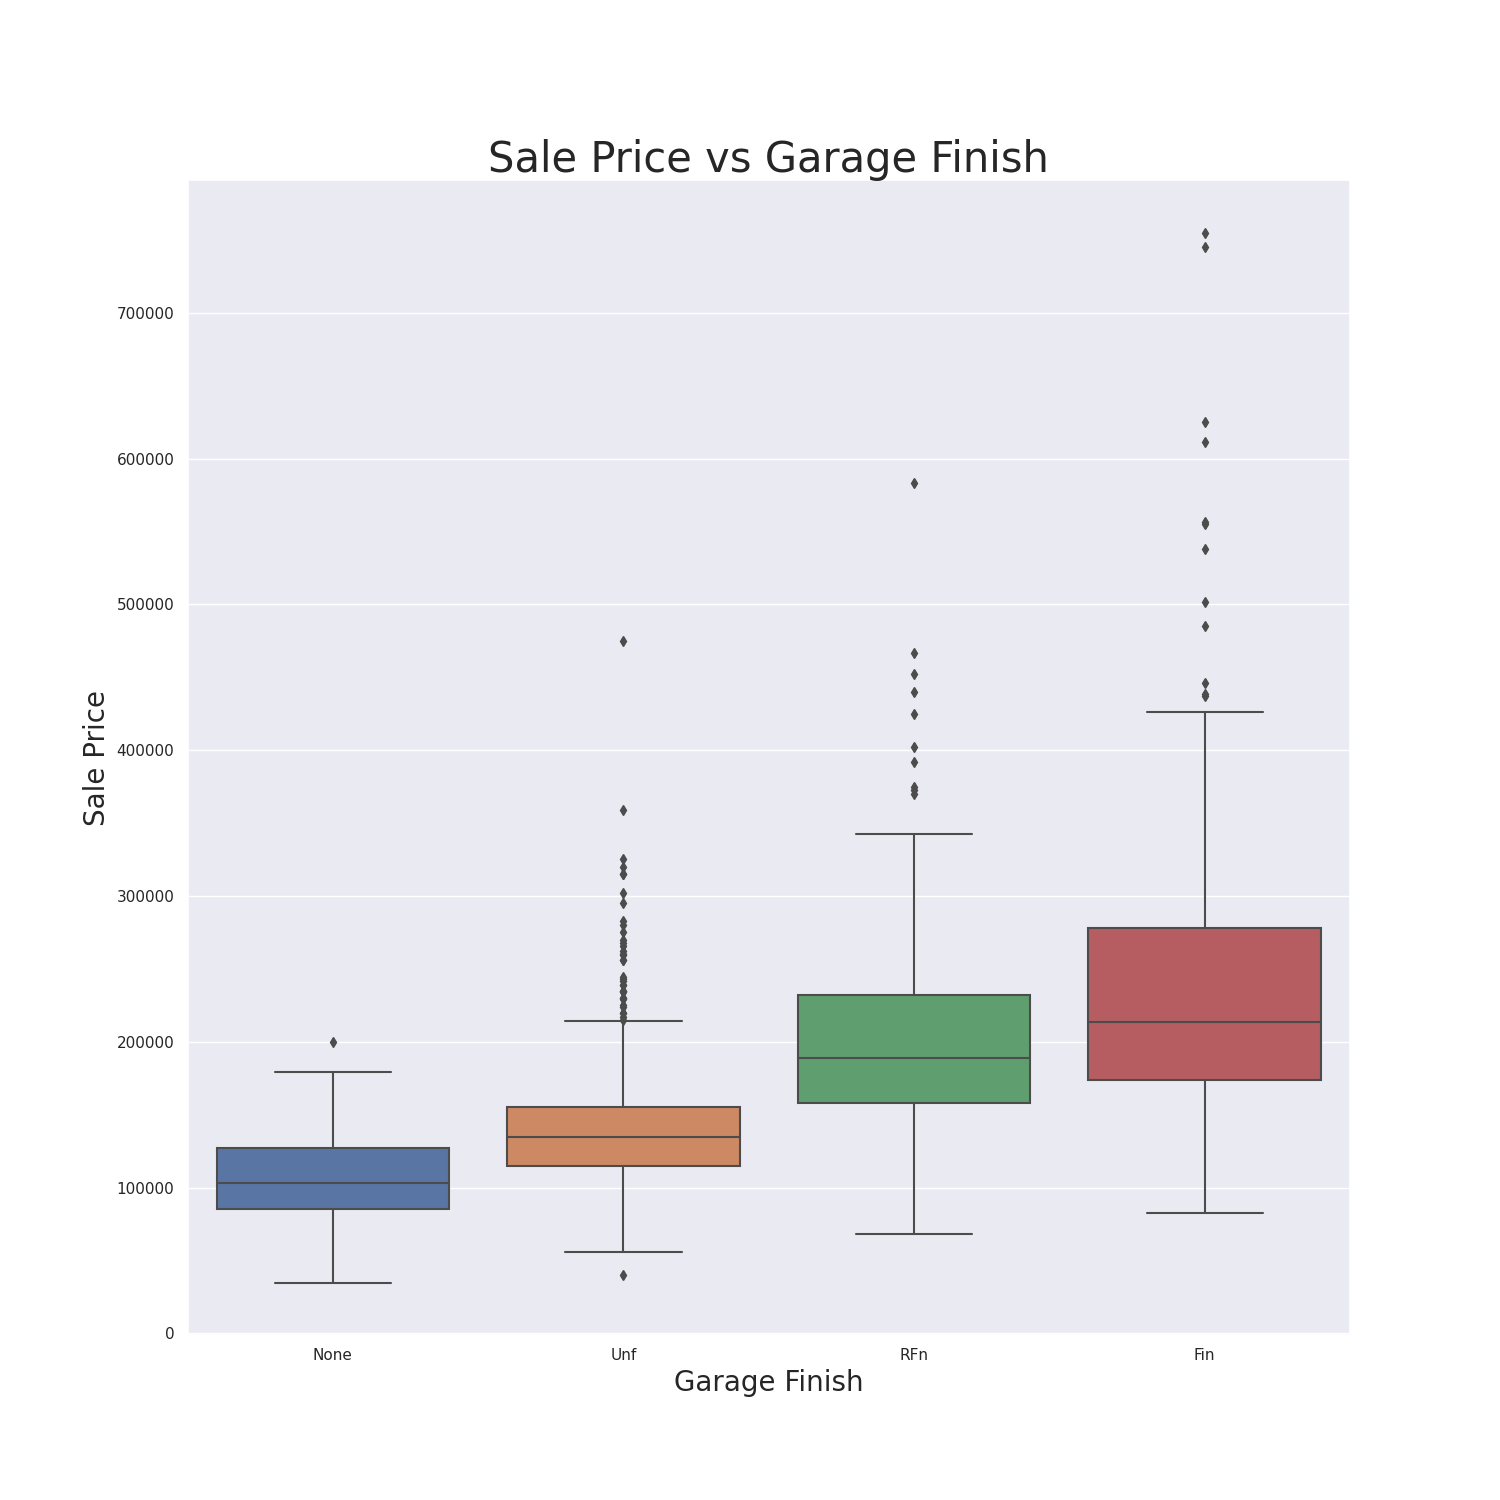
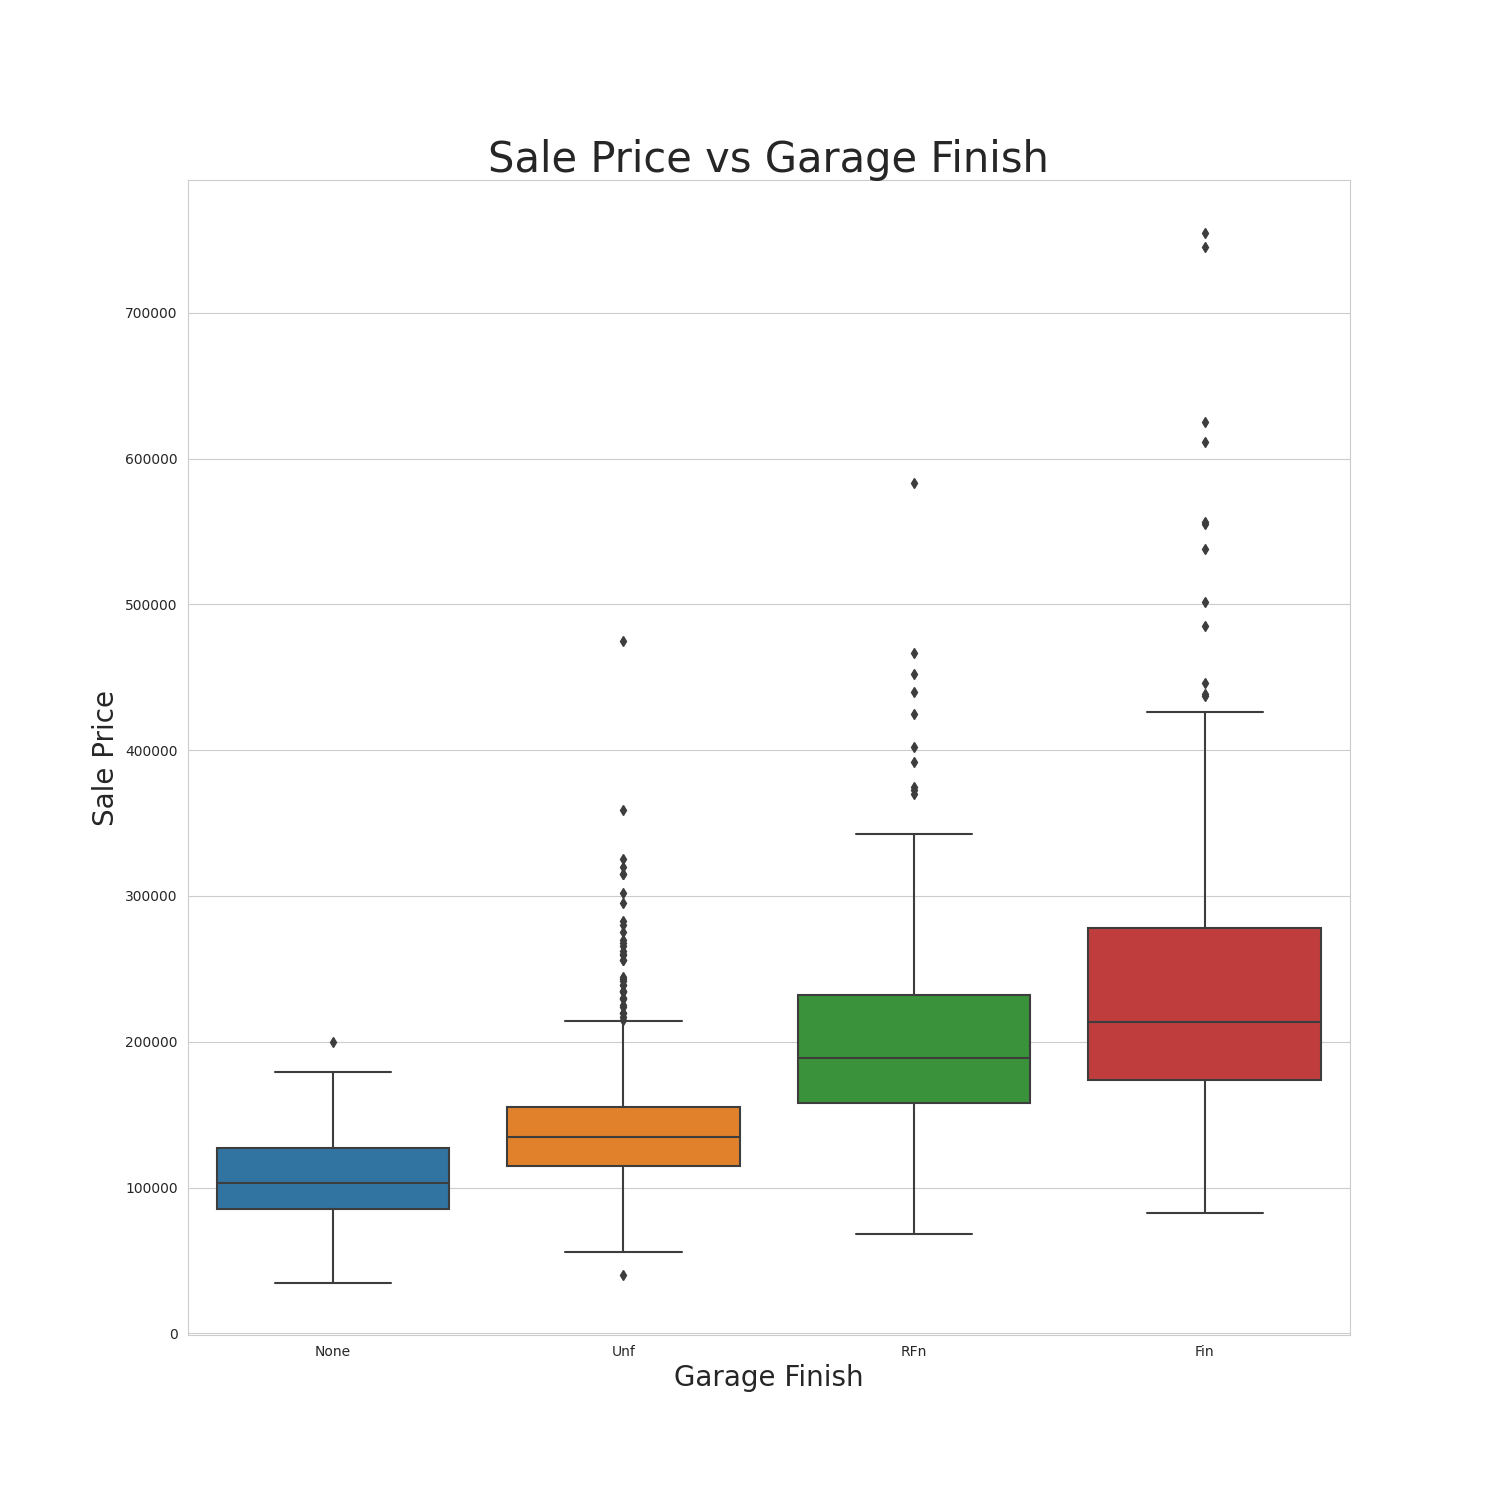
feat: add charts to correlation page on streamlit

diff --git a/app_pages/page_sale_price_study.py b/app_pages/page_sale_price_study.py
@@ -22,15 +22,17 @@ def page_sale_price_study_body():
         "The client is interested in discovering how the house attributes\
          correlate with the sale price. Therefore, the client expects data\
          visualisations of the correlated variables against the sale price to show that."
-    )    
+    )
     # Inspect dataset
     st.subheader("Explore Dataset")
 
-    df= load_housing_data()
+    df = load_housing_data()
 
-    if(st.checkbox( "Inspect dataset")):
-        st.write(f'* The dataset has {df.shape[0]} rows and {df.shape[1]} columns.')
-        st.write("""* The last column ```SalePrice``` is our taget variable for finding correlation.""")
+    if st.checkbox("Inspect dataset"):
+        st.write(f"* The dataset has {df.shape[0]} rows and {df.shape[1]} columns.")
+        st.write(
+            """* The last column ```SalePrice``` is our taget variable for finding correlation."""
+        )
         st.write("""
             * Sale Price is in USD and area measurement is in square feet. For additional variable \
             definition and metadata, refer to the project [ReadMe](https://github.com/ysgurjar/pp5_project_heritage_housing)\
@@ -47,7 +49,7 @@ def page_sale_price_study_body():
     )
 
     st.info(
-            """
+        """
             - **Size** :
                 - **First Floor Square feet** (1stFlrSF): Larger the area, higher the price
                 - **Garage Area** (GarageArea): Larger the area, higher the price
@@ -65,20 +67,79 @@ def page_sale_price_study_body():
                     but after that newer houses typically have higher prices. PS: This field contains a lot of missing values\
                     so be careful to analyse it.
             """
-        )
-    
-    if(st.checkbox( "Show Correlation Plots")):
-        st.write(f'The dataset has {df.shape[0]} rows and {df.shape[1]} columns.')
-        st.write("""The last column ```SalePrice``` is our taget variable for finding correlation.""")
-        st.write(df)
-    
-    ## ==== Code to generate plots ====
+    )
 
-    # Create a custom dict to display categories labels instead of names
+    # ==== Code to generate plots ====
 
-    var_labels={
-        '1stFlrSF':'1st Floor Square Feet',
-        'GarageArea': 'Garage Area',
-        'GrLiveArea': 'Ground Living Area'
-        ''
+    # create a custom dict to display categories labels instead of names on plots
+
+    var_labels = {
+        "1stFlrSF": "1st Floor Square Feet",
+        "GarageArea": "Garage Area",
+        "GrLivArea": "Ground Living Area",
+        "TotalBsmtSF": "Total Basement Square Feet",
+        "OverallQual": "Overall Quality",
+        "GarageFinish": "Garage Finish",
+        "KitchenQual": "Kitchen Quality",
+        "YearBuilt": "Original Construction Year",
+        "GarageYrBlt": "Year Garage was Built",
     }
+
+    # create a custom order dict for categorical variables to define plotting order
+
+    cat_var_order = {
+        "OverallQual": [1, 2, 3, 4, 5, 6, 7, 8, 9, 10],
+        "KitchenQual": ["Fa", "TA", "Gd", "Ex"],
+        "GarageFinish": ["None", "Unf", "RFn", "Fin"],
+    }
+
+    # plot categorical variables
+
+    def plot_cat_var():
+        cat_var = ["OverallQual", "GarageFinish", "KitchenQual"]
+
+        for x in cat_var:
+            fig, axes = plt.subplots(nrows=1, ncols=1, figsize=(15, 15))
+            p = sns.boxplot(data=df, y="SalePrice", x=x, order=cat_var_order[x])
+            p.axes.set_title(f"Sale Price vs {var_labels[x]}", fontsize=30)
+            p.axes.set_ylabel("Sale Price", fontsize=20)
+            p.axes.set_xlabel(var_labels[x], fontsize=20)
+            # Show the plot
+            st.pyplot(fig)
+
+    # plot numerical variables
+    def plot_num_var():
+        num_var = [
+            "GrLivArea",
+            "TotalBsmtSF",
+            "1stFlrSF",
+            "GarageArea",
+            "YearBuilt",
+            "GarageYrBlt",
+        ]
+
+        for x in num_var:
+            # sns.set_theme()
+            # sns.set_context('paper')
+            plt.figure(figsize=(15, 15))  # Set the figure size for each subplot
+            if x in ("YearBuilt", "GarageYrBlt"):
+                p = sns.lineplot(data=df, x=x, y="SalePrice")
+                # Inspired from https://python-charts.com/seaborn/lines/
+                # Add a vertical line to seperate two trends
+                p.axvline(x=1950, color="black", linestyle="dashed")
+            else:
+                # set robust = True reduce the effect of outliers
+                p = sns.regplot(
+                    data=df, x=x, y="SalePrice", marker="x", robust=True
+                )
+            p.set_title(f"Sale Price vs {var_labels[x]}", fontsize=30)  # Setting title for each plot
+
+            # set labels
+            plt.xlabel(var_labels[x], fontsize=20)  # Optionally set the x-axis label
+            plt.ylabel("Sale Price", fontsize=20)  # Optionally set the y-axis label
+            # Show the plot
+            st.pyplot(plt)
+
+    if st.checkbox("Show Correlation Plots"):
+        plot_cat_var()
+        plot_num_var()
